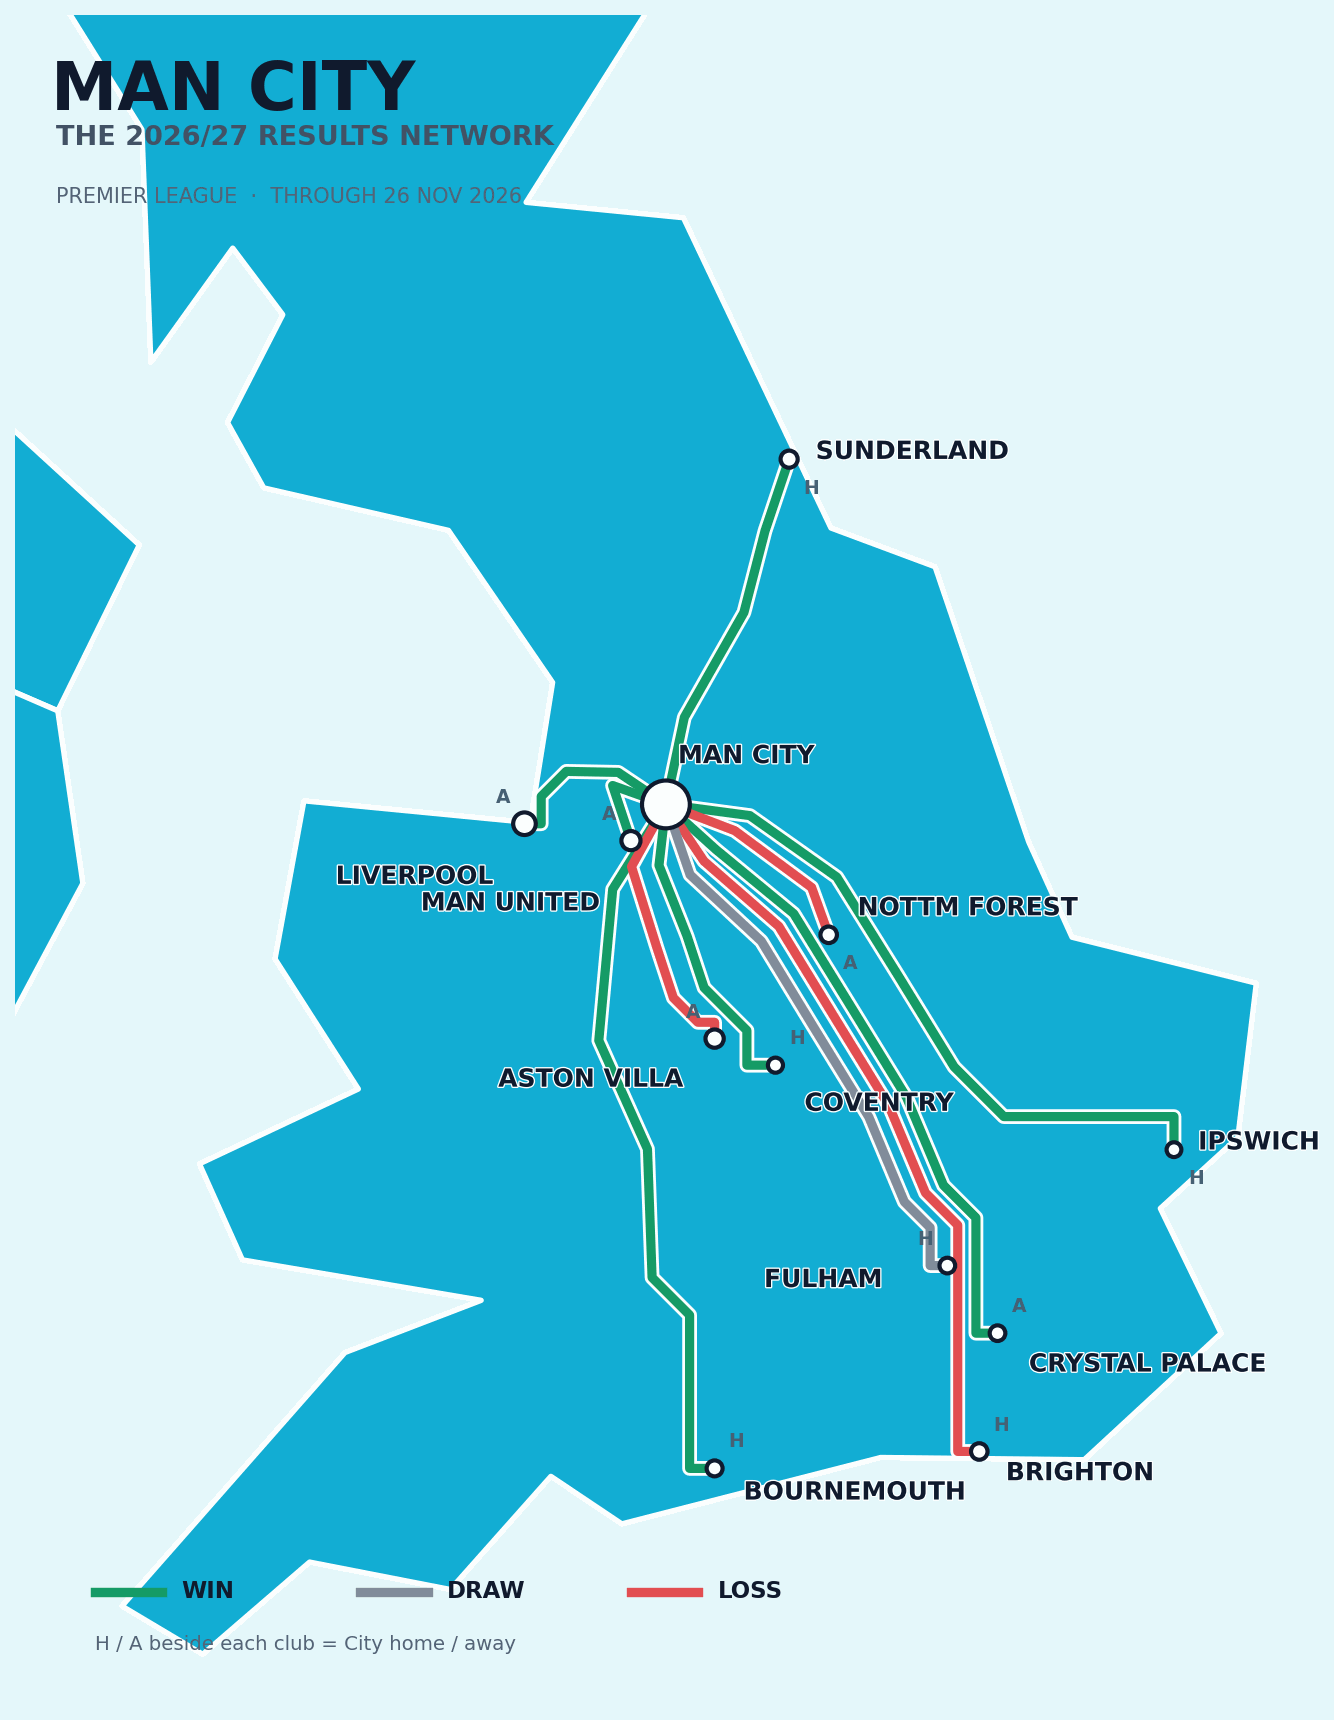
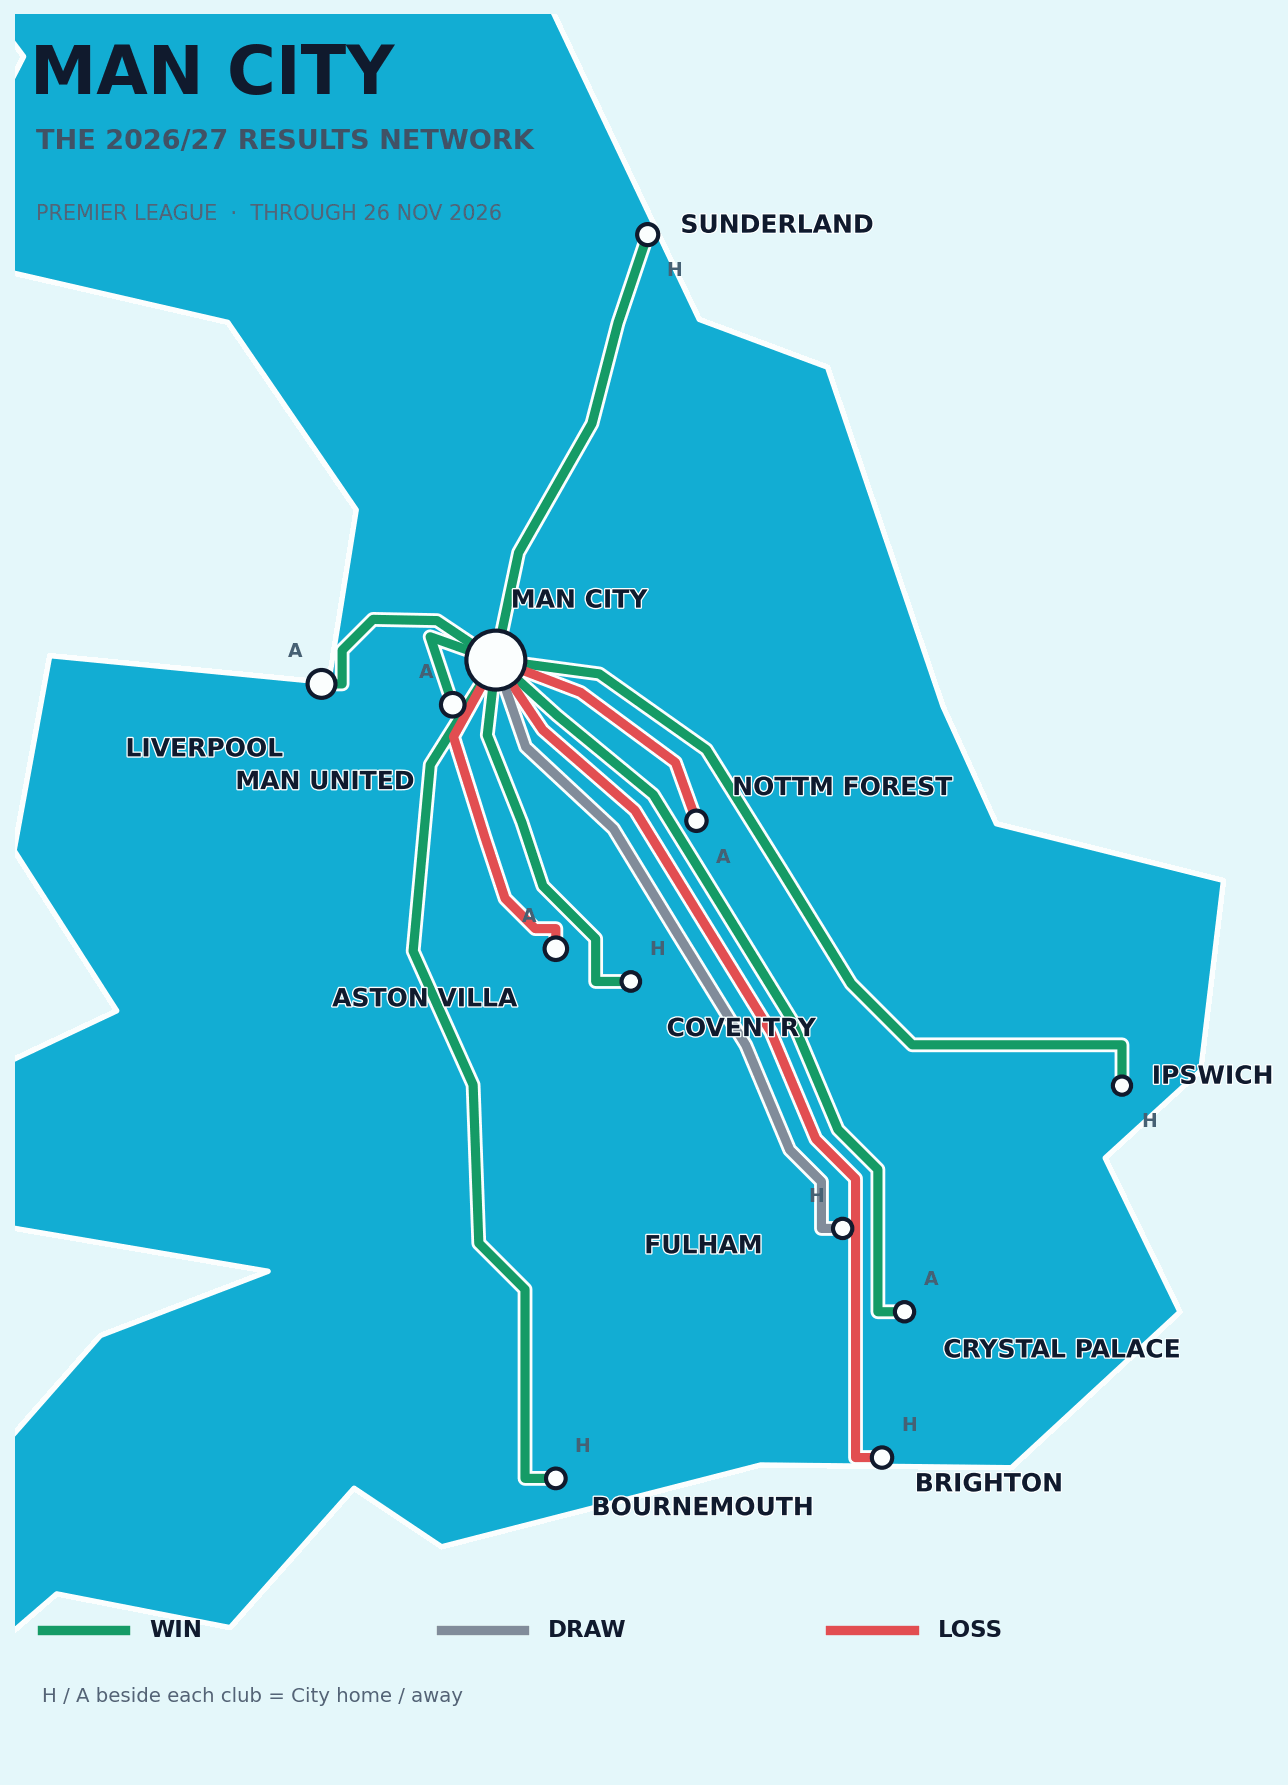
Tighten final map framing for phone readability

Changed region(s): [[0.0, 0.0, 0.9938, 0.9552], [0.7453, 0.8936, 0.7764, 0.9244]]

diff --git a/EPL_Subway_Map/_1_SM_Man_City.py b/EPL_Subway_Map/_1_SM_Man_City.py
@@ -218,18 +218,21 @@ def draw_nodes(ax, stage: int):
                     path_effects=[pe.withStroke(linewidth=1.3,foreground=HALO)] if stage>=5 else [])
 
 def decorate(ax, rows, stage):
-    ax.text(.10,6.87,"MAN CITY",fontsize=32 if stage>=5 else 25,
+    title_x = 1.08 if stage >= 5 else .10
+    title_y = 5.86 if stage >= 5 else 6.87
+    ax.text(title_x,title_y,"MAN CITY",fontsize=32 if stage>=5 else 25,
             weight="heavy",color=INK,va="top",zorder=12)
-    ax.text(.12,6.51,"THE 2026/27 RESULTS NETWORK",fontsize=13 if stage>=5 else 10.8,
+    ax.text(title_x+.02,title_y-.36,"THE 2026/27 RESULTS NETWORK",fontsize=13 if stage>=5 else 10.8,
             weight="bold",color="#415266",zorder=12)
-    ax.text(.12,6.27,"PREMIER LEAGUE  ·  THROUGH 26 NOV 2026",fontsize=10 if stage>=5 else 8.5,
+    ax.text(title_x+.02,title_y-.60,"PREMIER LEAGUE  ·  THROUGH 26 NOV 2026",fontsize=10 if stage>=5 else 8.5,
             color="#536477",zorder=12)
     if stage>=4:
         y=.52
-        for x,code,word in [(.28,"W","WIN"),(1.38,"D","DRAW"),(2.50,"L","LOSS")]:
+        legend = [(1.12,"W","WIN"),(2.46,"D","DRAW"),(3.77,"L","LOSS")] if stage>=5 else [(.28,"W","WIN"),(1.38,"D","DRAW"),(2.50,"L","LOSS")]
+        for x,code,word in legend:
             ax.plot([x,x+.28],[y,y],color=COLORS[code],lw=4.5,zorder=11)
             ax.text(x+.36,y,word,va="center",fontsize=11 if stage>=5 else 9,weight="bold",color=INK,zorder=11)
-        ax.text(.28,.28,"H / A beside each club = City home / away",
+        ax.text(1.12 if stage>=5 else .28,.28,"H / A beside each club = City home / away",
                 fontsize=9.5 if stage>=5 else 8.3,color="#526478",zorder=11)
     else:
         ax.text(.12,.31,f"{len(rows)} completed matches  ·  stage {stage}/5",
@@ -251,7 +254,10 @@ def render(rows, stage):
     fig,ax=plt.subplots(figsize=(10.8,15.2),dpi=150)
     fig.patch.set_facecolor(SEA)
     ax.set_facecolor(SEA)
-    ax.set_xlim(-.05,5.15); ax.set_ylim(.05,7.05)
+    if stage >= 5:
+        ax.set_xlim(1.03,5.15); ax.set_ylim(.05,5.95)
+    else:
+        ax.set_xlim(-.05,5.15); ax.set_ylim(.05,7.05)
     ax.set_aspect("equal")
     ax.axis("off")
     draw_land(ax,stage)
